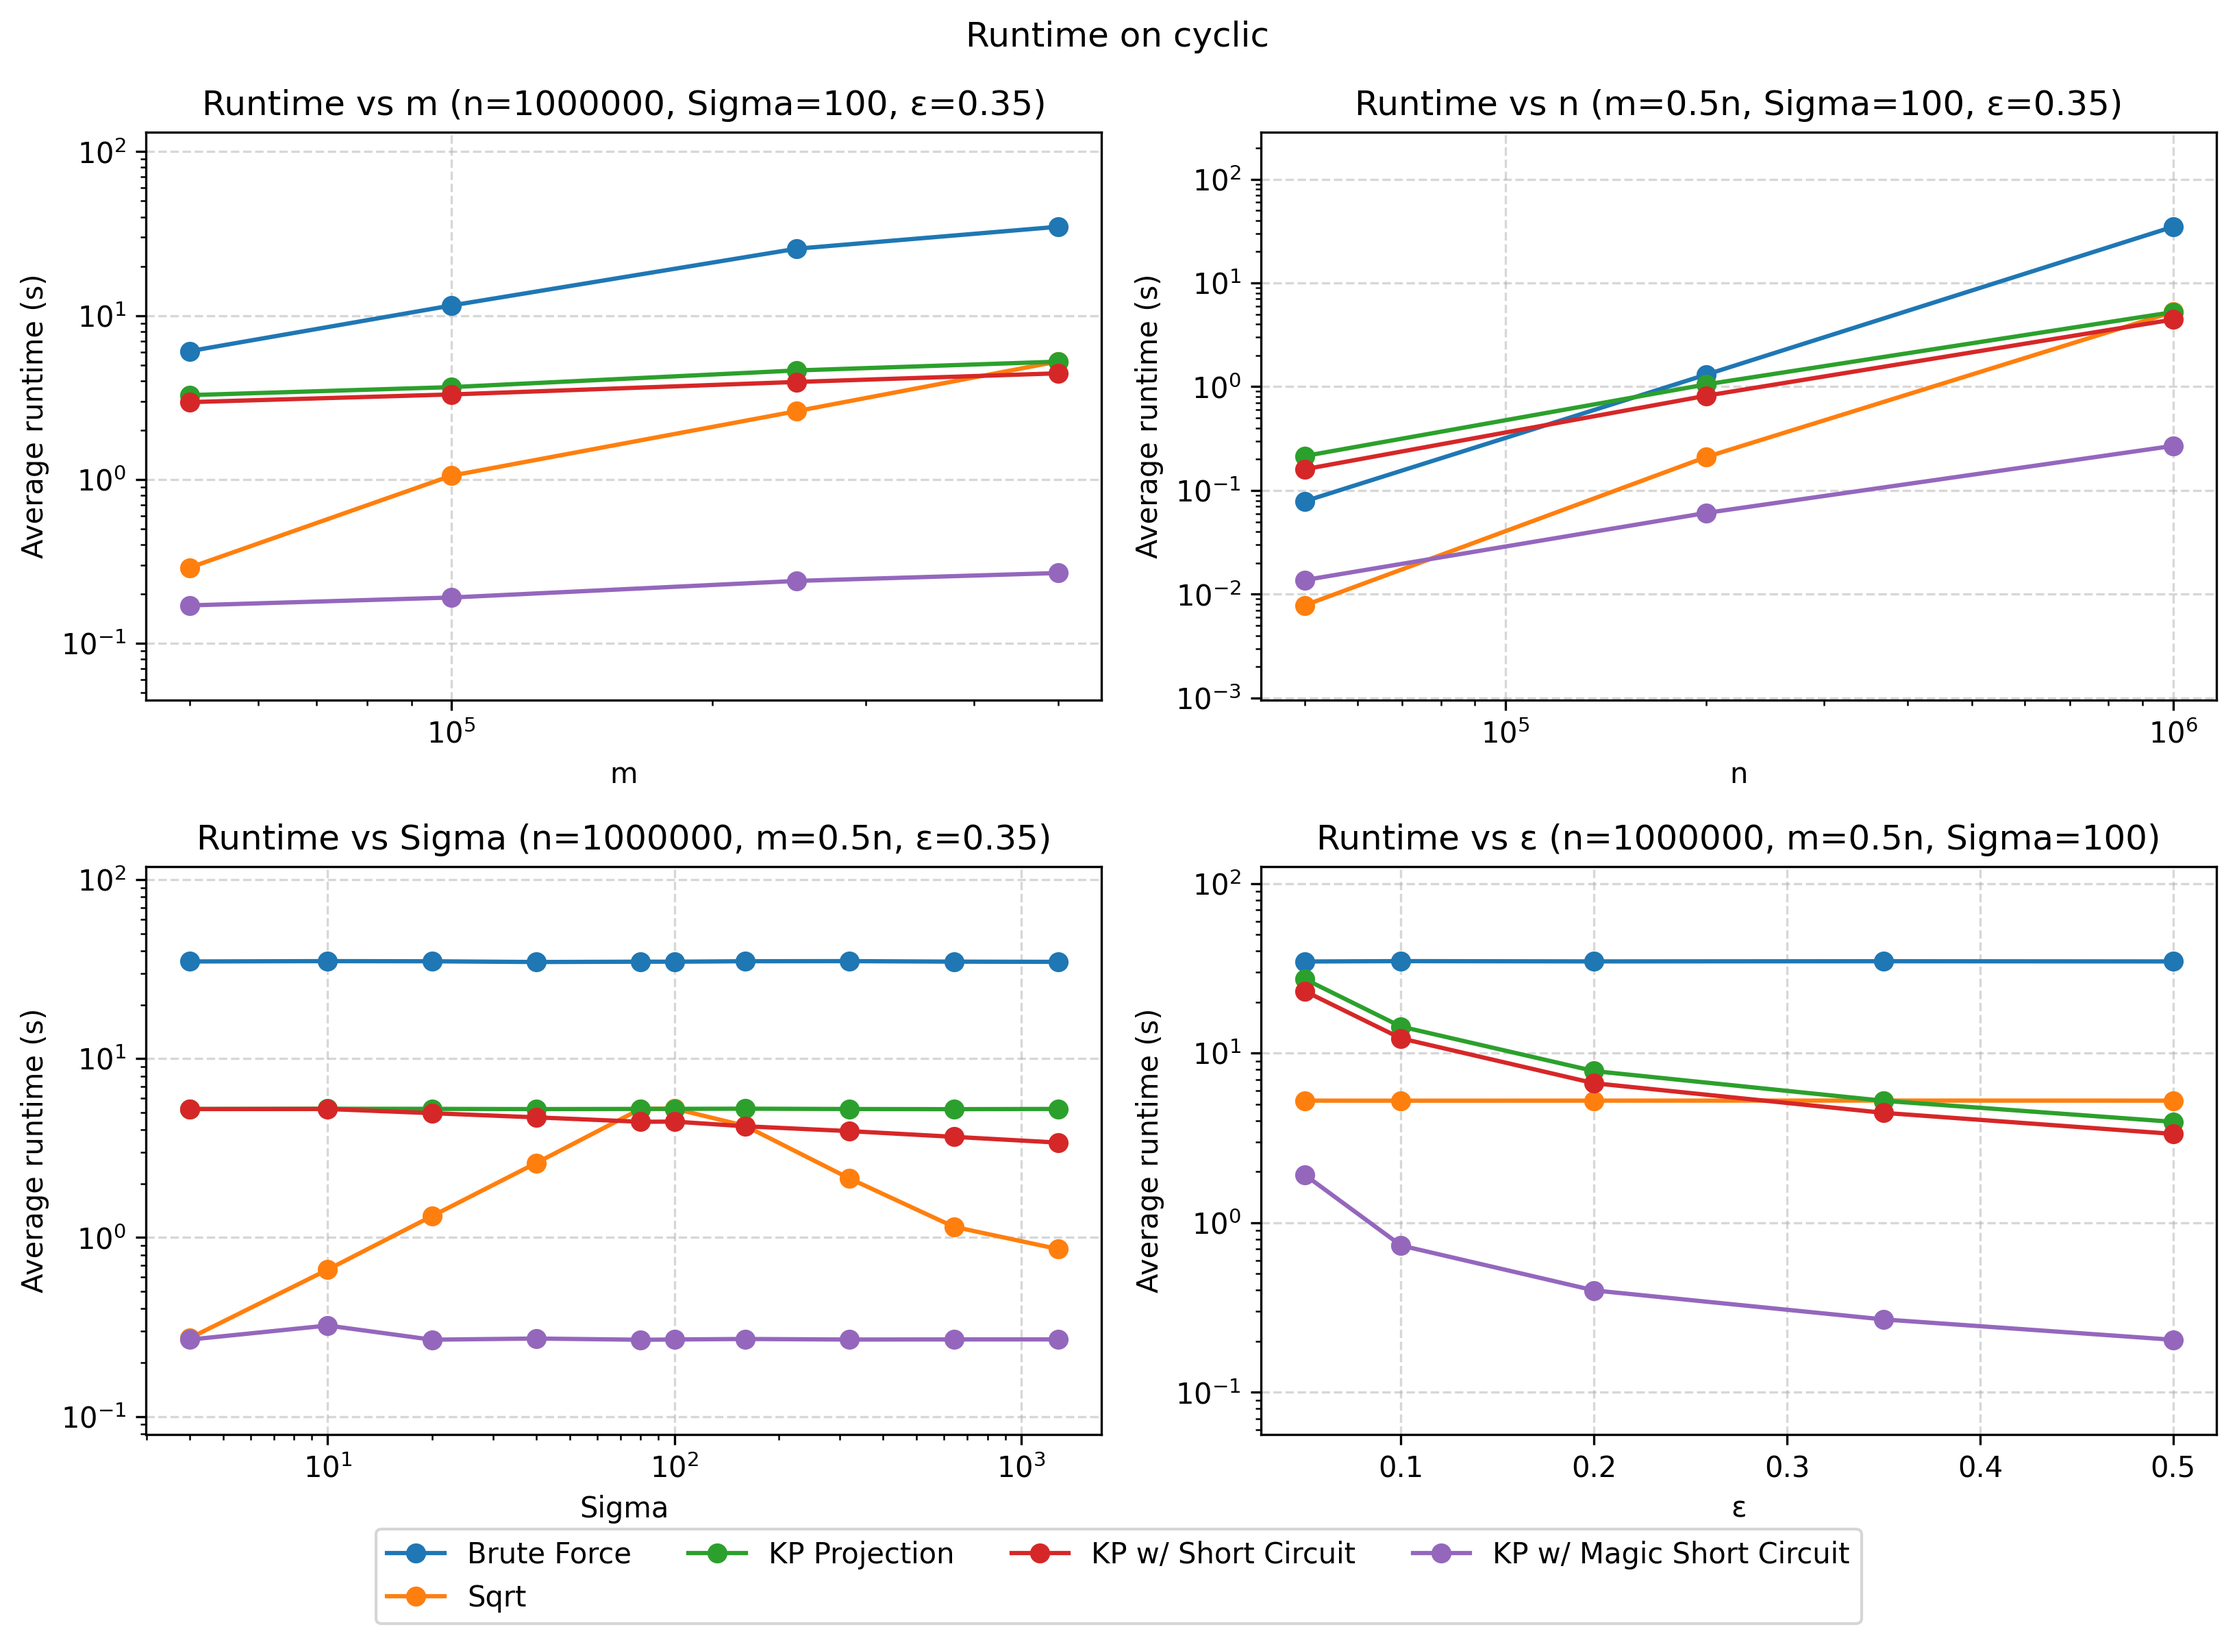
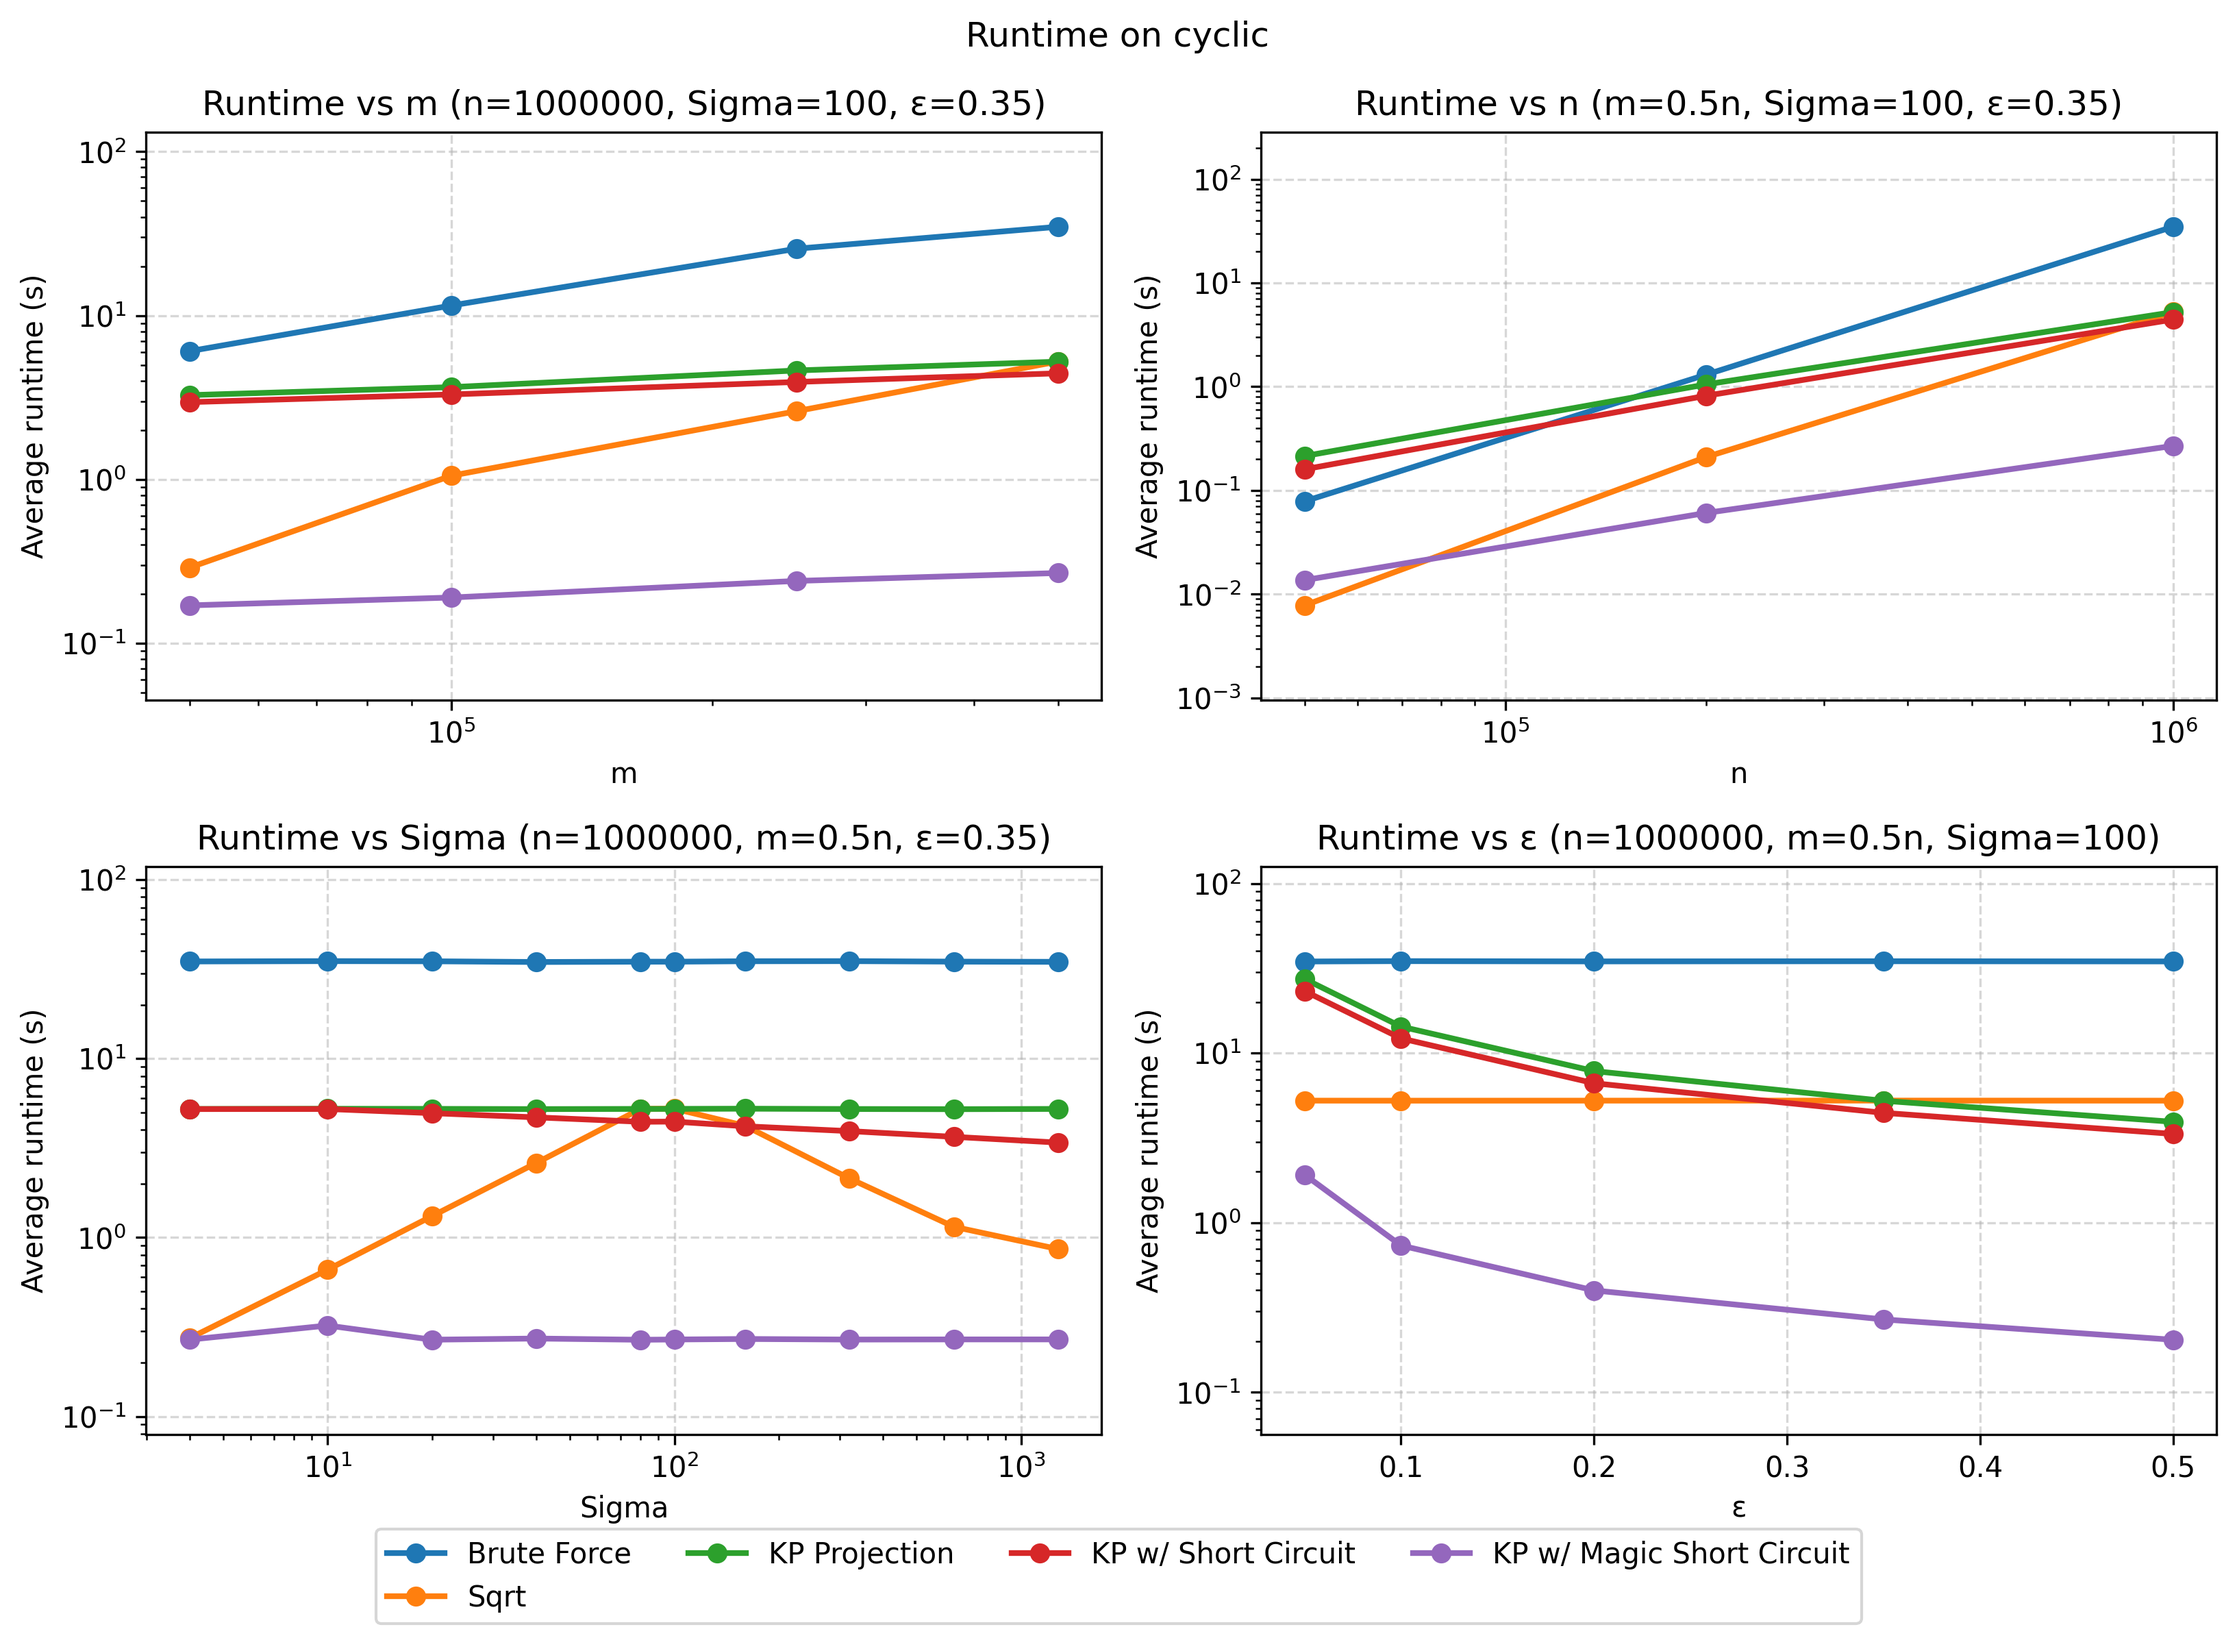
Gen better dotted graphs

diff --git a/src/plotting_new.py b/src/plotting_new.py
@@ -1,11 +1,12 @@
 import pandas as pd
 import numpy as np
 import matplotlib.pyplot as plt
+import sys
 
 # -------------------------------------------------
 # Load data and define short algorithm names
 # -------------------------------------------------
-GEN_NAME = "uniform"
+GEN_NAME = "k_difs"
 df = pd.read_csv("../results/" + GEN_NAME + ".csv").copy()
 
 name_map = {
@@ -67,7 +68,8 @@ def plot_group_on_ax(
         for dup_tup in dupes:
             if algo in dup_tup:
                 ind = dup_tup.index(algo)
-                linestyle = (ind % len(dup_tup) * 2, (2, 2 * (len(dup_tup)-1)))
+                linestyle = (ind % len(dup_tup) * 4, (4, 4 * (len(dup_tup)-1)))
+                print("linestyle", linestyle)
 
         ax.plot(
             cur[x_col],
@@ -75,7 +77,7 @@ def plot_group_on_ax(
             marker="o",
             label=algo,
             linestyle=linestyle,
-            # linewidth=4,
+            linewidth=2,
         )
 
     if log_x:
@@ -133,6 +135,9 @@ RATIO = "avg_ratio"
 # =====================================================
 # FIGURE 1 — Approx algos: AVG TIME panels
 # =====================================================
+
+global_dupes = [("KP w/ Short Circuit", "KP w/ Magic Short Circuit")] if GEN_NAME == "uniform" else []
+
 fig1, axes1 = plt.subplots(2, 2, figsize=(11, 8))
 # custom_ticks = [5e4, 1e5, 5e5]
 # custom_labels = [rf"$5\cdot10^{4}$", rf"$10^{5}$", rf"$5\cdot10^{5}$"]
@@ -143,8 +148,7 @@ plot_group_on_ax(
     x_label="m",
     title=f"Runtime vs m (n={baseline_n}, Sigma={baseline_sigma}, ε={baseline_eps})",
     log_x=True, log_y=True,
-    # xticks=custom_ticks,
-    # xticklabels=custom_labels
+    dupes=global_dupes,
 )
 
 plot_group_on_ax(
@@ -154,6 +158,7 @@ plot_group_on_ax(
     x_label="n",
     title=f"Runtime vs n (m={baseline_m_frac}n, Sigma={baseline_sigma}, ε={baseline_eps})",
     log_x=True, log_y=True,
+    dupes=global_dupes,
 )
 
 plot_group_on_ax(
@@ -163,6 +168,7 @@ plot_group_on_ax(
     x_label="Sigma",
     title=f"Runtime vs Sigma (n={baseline_n}, m={baseline_m_frac}n, ε={baseline_eps})",
     log_x=True, log_y=True,
+    dupes=global_dupes,
 )
 
 plot_group_on_ax(
@@ -172,6 +178,7 @@ plot_group_on_ax(
     x_label="ε",
     title=f"Runtime vs ε (n={baseline_n}, m={baseline_m_frac}n, Sigma={baseline_sigma})",
     log_x=False, log_y=True,
+    dupes=global_dupes,
 )
 
 handles, labels = axes1[0, 0].get_legend_handles_labels()
@@ -192,7 +199,7 @@ fig1.legend(
 fig1.savefig("../figures/runtime_" + GEN_NAME + ".png", dpi=300, bbox_inches="tight")
 plt.show()
 
-
+sys.exit(0)
 # =====================================================
 # FIGURE 2 — Approx algos: AVG APPROX RATIO panels
 # =====================================================
